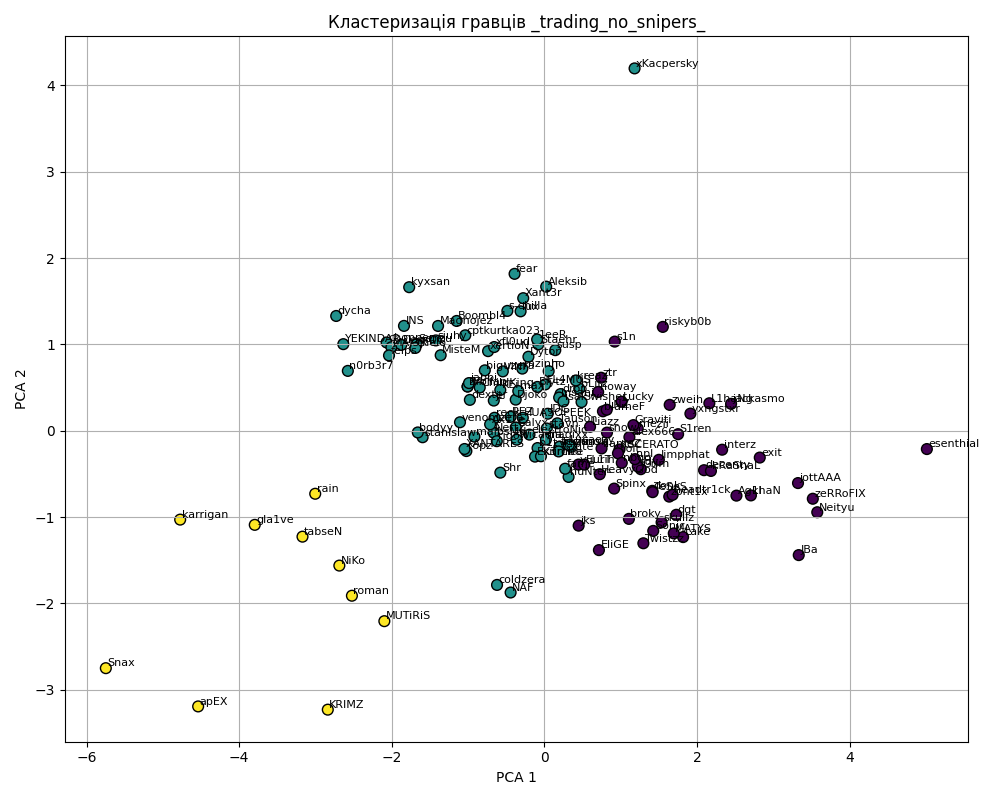
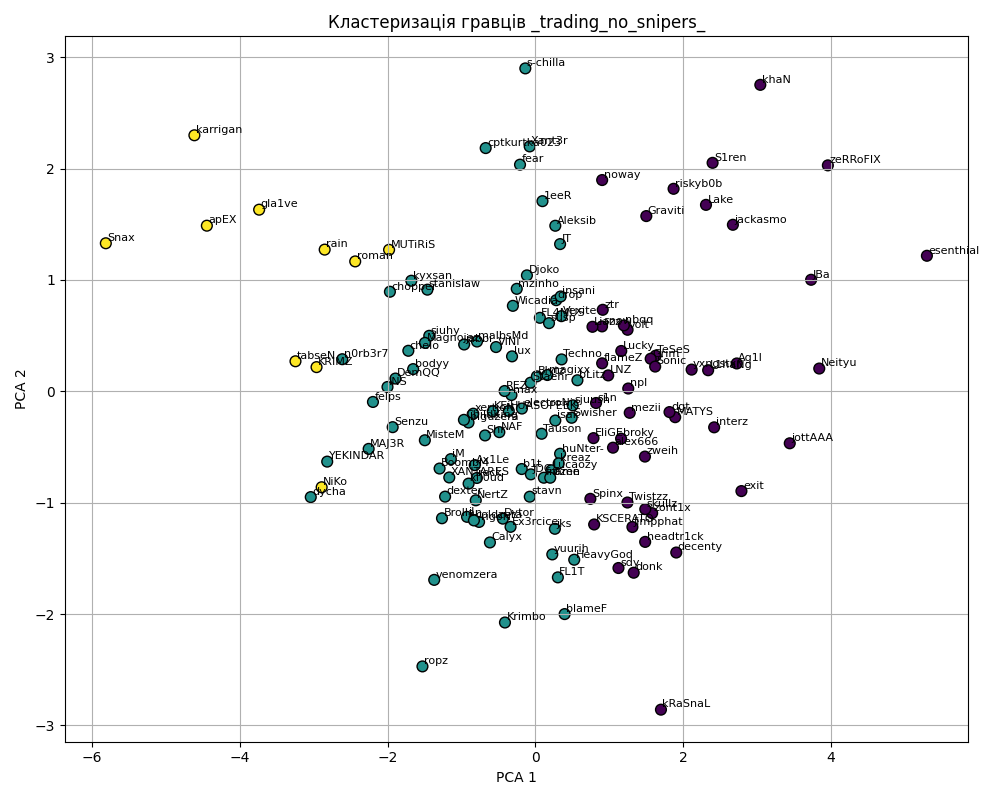
add all  maps

diff --git a/clusterization/kmeans.py b/clusterization/kmeans.py
@@ -5,30 +5,30 @@ from sklearn.cluster import KMeans
 import matplotlib.pyplot as plt
 from pathlib import Path
 
-from role_features import INTEGRAL,UTILITY,MAIN_COMPONENTS_MAP, MAP_INDEPENDENT
+from role_features import INTEGRAL
 
 class Kmeans:
     BASE_DIR = Path(__file__).resolve()
     IMAGES_DIR = 'results'
 
-    def __init__(self, map_name = 'de_mirage', filter_snipers = True, features = INTEGRAL, image_name ='clusterization'):
-        self.filepath = map_name  + '.csv'
+    def __init__(self, map_name = 'de_mirage', filter_snipers = True, features = INTEGRAL, image_name ='clusterization', filepath= 'path_to_file'):
         self.map_name = map_name
         self.filter_snipers = filter_snipers
         self.features = features
         self.image_name = image_name
+        self.filepath = filepath
        
     def call(self):
-        filepath = self.BASE_DIR.parent.parent/ 'normalization'  / 'maps'/ self.filepath
+        #filepath = self.BASE_DIR.parent.parent/ 'normalization' / 'top_20_normalized_all.csv'
         results_dir = Path(self.IMAGES_DIR)
         results_dir.mkdir(parents=True, exist_ok=True)
-        df = pd.read_csv(filepath)
+        df = pd.read_csv(self.filepath )
+        df_filtered = df[df['firepower'] > 0]
 
-        # # 2. Фільтрація не-sniper
         if self.filter_snipers:
-            df_filtered = df[df['sniping'] < 0.7]
+            df_filtered = df_filtered[df_filtered['sniping'] < 0.7]
         else:
-            df_filtered = df
+            df_filtered = df_filtered
         
         # 3. Ознаки
         X = df_filtered[self.features]
@@ -60,25 +60,50 @@ class Kmeans:
         plt.tight_layout()
         image_wth_ext = self.map_name + self.image_name + 'detailed' + '.png'
         plt.savefig(results_dir / image_wth_ext )
-
-
-# for key,values in MAIN_COMPONENTS_MAP.items():
-#     filter_snipers = True
-#     prefix = '_' + key
-#     image_name = prefix + '_with_sniper_'
-  
-#     if filter_snipers:
-#         image_name = prefix + '_no_snipers_'
-#     for map in ['de_mirage', 'de_nuke', 'de_inferno']:
-#         Kmeans(map_name = map, features = values, image_name = image_name, filter_snipers = filter_snipers).call()
     
 
-filter_snipers = True
-prefix = '_' + 'map_independent'
-image_name = prefix + '_with_sniper_'
-  
-if filter_snipers:
-    image_name = prefix + '_no_snipers_'
-for map in ['de_mirage', 'de_nuke', 'de_inferno', 'de_ancient', 'de_anubis', 'de_dust2']:
-    Kmeans(map_name = map, features = MAP_INDEPENDENT, image_name = image_name, filter_snipers = filter_snipers).call()
+    @classmethod
+    def run_map_independent_clustering(cls):
+        from role_features import MAP_INDEPENDENT
+        for bool in [True, False]:  
+            prefix = '_map_independent'
+            image_name = prefix + ('_no_snipers_' if bool else '_with_sniper_')
+            map_name = 'all'
+            filepath = Kmeans.BASE_DIR.parent.parent / 'normalization' / 'top_20_normalized_all.csv'
+
+            instance = cls(
+                map_name=map_name,
+                features=MAP_INDEPENDENT,
+                image_name=image_name,
+                filter_snipers=bool,
+                filepath= filepath
+            )
+            instance.call()
+
+    @classmethod
+    def run_map_clustering(cls):
+        from role_features import MAIN_COMPONENTS_MAP, CS_MAPS
+        for key,values in MAIN_COMPONENTS_MAP.items():
+            filter_snipers = True
+            prefix = '_' + key
+            image_name = prefix + '_with_sniper_'
+        
+            if filter_snipers:
+                image_name = prefix + '_no_snipers_'
+            for map in CS_MAPS:
+                filepath = Kmeans.BASE_DIR.parent.parent/ 'normalization'  / 'maps'/ f"{map}.csv"
+
+                instance = cls(
+                    map_name=map,
+                    features=values,
+                    image_name=image_name,
+                    filter_snipers=filter_snipers,
+                    filepath= filepath
+                )
+                instance.call()
+
+    
+
+#df_clusters = Kmeans.run_map_independent_clustering()
+Kmeans.run_map_clustering()
     

diff --git a/clusterization/role_features.py b/clusterization/role_features.py
@@ -22,3 +22,5 @@ MAP_INDEPENDENT = ['win_after_opening_kill','traded_deaths_percentage', 'traded_
                    'rounds_with_a_kill', 'rounds_with_a_multi_kill', 'kills_per_round_win', 'kills_per_round', 'flashes_thrown_per_round'
                    
 ]
+
+CS_MAPS = ['de_train', 'de_nuke', 'de_inferno', 'de_mirage', 'de_dust2', 'de_vertigo','de_ancient', 'de_anubis']
